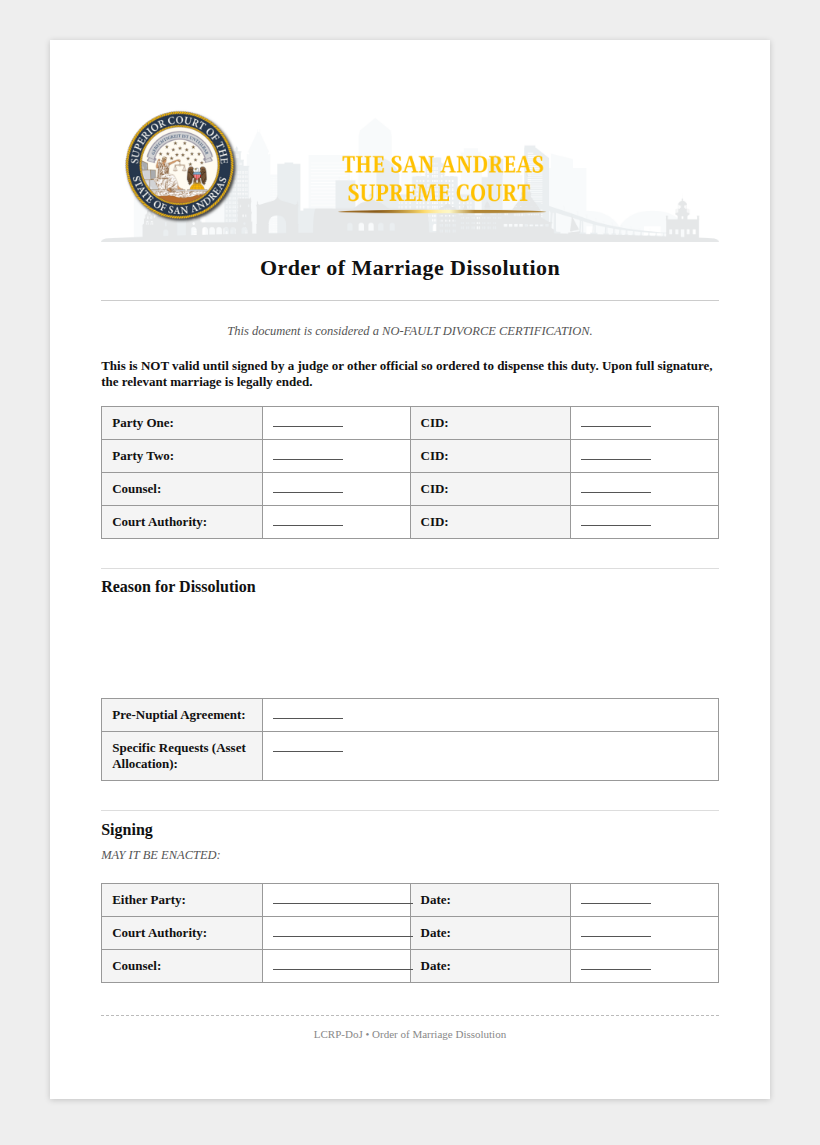
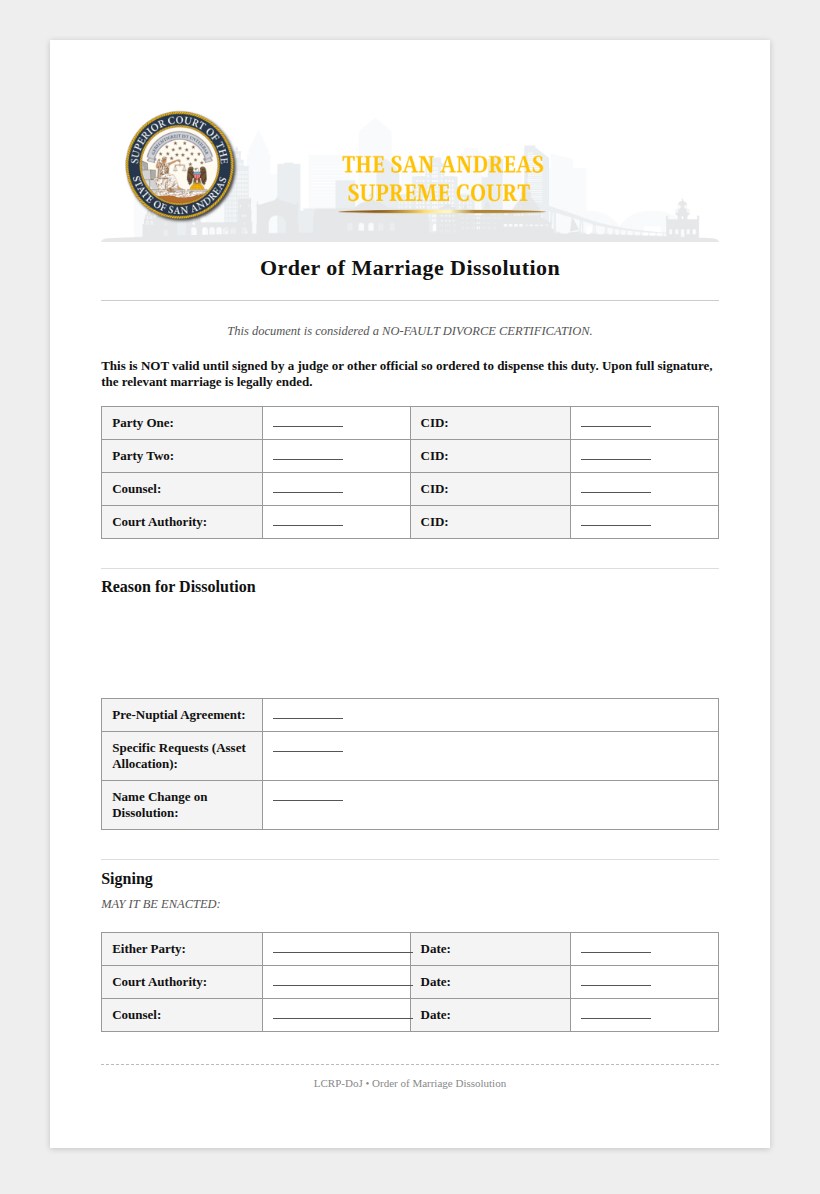
Fill 3 template gaps found in deep cross-check against procedures
- name_change: added is_joining_family/family_permission fields --
  procedure requires proof of permission when a name change is to join
  a family, which wasn't captured anywhere.
- divorce: added name_change_request field (25-char max) -- procedure
  explicitly allows bundling a name change into the dissolution filing,
  same gap already fixed on marriage_submission.
- will_application: asset_list prompt now reminds the filer that
  bequeathed items must be within city limits and can't cross
  characters on the same account -- procedure requirement that was
  never actually surfaced in the prompt.

Also re-verified business_partnership, dissolution_of_partnership, and
medical_power_of_attorney against the current procedures text -- no
gaps found there.

diff --git a/templates/name_change.html b/templates/name_change.html
@@ -53,6 +53,15 @@
 
     <table class="form-grid">
       <tr>
+        <td class="label">Joining a Family:</td>
+        <td><span class="field">{{is_joining_family}}</span></td>
+        <td class="label">Family Permission:</td>
+        <td><span class="field">{{family_permission}}</span></td>
+      </tr>
+    </table>
+
+    <table class="form-grid">
+      <tr>
         <td class="label">Approving Judiciary:</td>
         <td><span class="field signature">{{approving_judge_name}}</span></td>
         <td class="label">Date:</td>

diff --git a/templates/divorce.html b/templates/divorce.html
@@ -46,6 +46,7 @@
     <table class="form-grid">
       <tr><td class="label">Pre-Nuptial Agreement:</td><td><span class="field">{{prenup_status}}</span></td></tr>
       <tr><td class="label">Specific Requests (Asset Allocation):</td><td><span class="field">{{specific_requests}}</span></td></tr>
+      <tr><td class="label">Name Change on Dissolution:</td><td><span class="field">{{name_change_request}}</span></td></tr>
     </table>
 
     <h2 class="section">Signing</h2>
